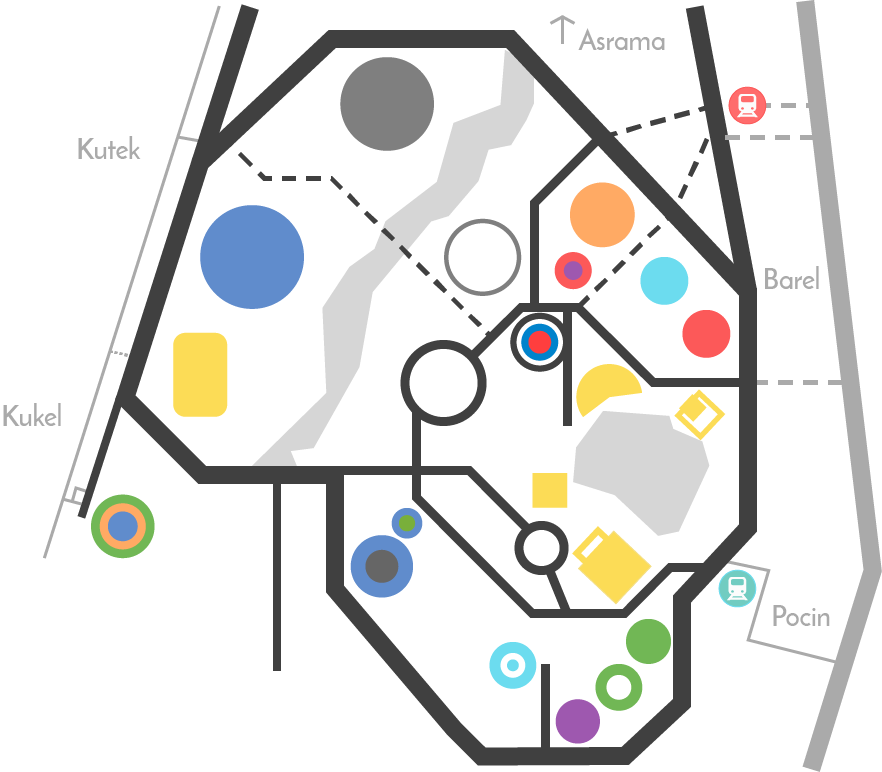
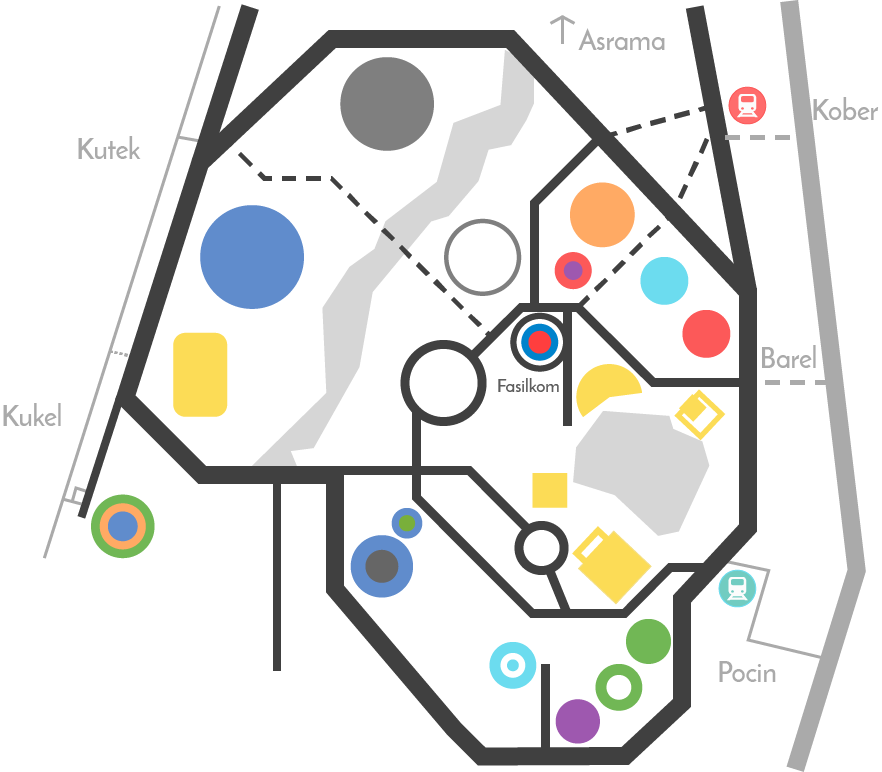
changed main map a bit, added minimaps

Changed region(s): [[0.8571, 0.0, 1.0, 1.0], [0.7959, 0.8394, 0.8878, 0.9016], [0.551, 0.4974, 0.6429, 0.5285]]

diff --git a/index.html b/index.html
@@ -35,7 +35,7 @@
 				<div class="row">
 					<div class="col-md-6 col-md-offset-3 splash-content">
 						<h1>iMaba</h1>
-						<p class="">Hi there new CS Students! Want to know more about the <br>Faculty of Computer Science University of Indonesia?</p>
+						<p class="">Selamat datang mahasiswa baru Fakultas Ilmu Komputer UI 2016!</p>
 						<div class="row">
 							<div class="col-xs-4" id="btn-info-ui">
 								<img src="img/mainicons-05.png" alt="">
@@ -70,10 +70,10 @@
 					<!-- map -->
 					<div class="row row-90">
 						<div class="col-md-7">
-							<img id="map-ui" src="img/map-ui-l.png" alt="">
+							<img id="map-ui" src="img/map-ui-ln.png" alt="">
 						</div>
 						<div class="col-md-5">
-							<img id="map-ui-legend" src="img/map-ui-lj-leg.png" alt="">
+							<img id="map-ui-legend" src="img/map-ui-ln-leg.png" alt="">
 						</div>
 					</div>
 					<!-- end map -->
@@ -86,6 +86,7 @@
 					</div>
 					<div class="row row-90 infokosan">
 						<div class="col-md-4">
+							<img src="img/minimaps/minimap_Barel.png" alt="">
 							<h5>Barel</h5>
 							<p>Barel (belakang rel) merupakan sebutan untuk daerah sepanjang pinggir rel kereta api dan dapat dicapai melalui jalan kecil diseberang FH. Fasilitas yang ditawarkan kosan di Barel sangat bervariasi.</p>
 							<p>Rp. 750.000 - Rp. 1.500.000 per bulan</p>
@@ -93,6 +94,7 @@
 							<p>Harus menyebrang rel dan kalau sudah malam penjaga pintu palang rel sudah tidak ada, harga kosan relatif mahal.</p>
 						</div>
 						<div class="col-md-4">
+							<img src="img/minimaps/minimap_Pocin.png" alt="">
 							<h5>Pocin</h5>
 							<p>Pocin merupakan sebutan untuk daerah disekitar Stasiun Pondok Cina, letaknya hampir strategisnya dengan daerah Barel dan dekat dengan Balairung UI. Secara umum, kosan di kawasan Pocin menawarkan fasilitas yang tak jauh berbeda dengan kosan di daerah Barel.</p>
 							<p>Rp. 400.000 - Rp. 1.200.000 per bulan</p>
@@ -100,6 +102,7 @@
 							<p>Harga makanan di sekitar Pocin tidak semurah di Barel.</p>
 						</div>
 						<div class="col-md-4">
+							<img src="img/minimaps/minimap_Kober.png" alt="">
 							<h5>Kober</h5>
 							<p>Daerah Kober terletak seberang Barel, untuk menjangkaunya harus menyebrangi jalan raya Margonda. Kosan daerah Kober umumnya berfasilitas lengkap dan nyaman, namun lebih murah daripada Barel karena letaknya yang cukup jauh. Di daerah Kober terdapat apartemen juga lho yaitu Margonda Residence dan Taman Melati Margonda, tapi harganya tentu lebih mahal.</p>
 							<p>Rp. 400.000 - Rp. 1.200.000 (apartemen sekitar 1.800.000)</p>
@@ -160,14 +163,38 @@
 				</div>
 			</section>
 
-			<section id="kemahasiswaan">
+			<section id="lain-lain">
 				<div class="container">
+					<!-- head -->
 					<div class="row">
-						<div class="hblock">
-							<h2>kemahasiswaan</h2>
-							<p>berbagai organisasi dan kegiatan kemahasiswaan yang ada di Fakultas Ilmu Komputer Universitas Indonesia</p>
+						<div class="col-md-8 col-md-offset-2 hblock text-center">
+							<img src="img/headicons-07.png" alt="">
+							<h2>lain-lain</h2>
+							<p class="text-center">mau ngekost atau tinggal di mana ya? Terus kalau ke Fasilkom caranya gimana sih? Di Fasilkom itu ada apa aja sih? Anak-anak Fasilkom itu kayak apa ya?</p>
+							<hr>
 						</div>
 					</div>
+					<!-- end head -->
+					<!-- socmed -->
+					<div class="row">
+						<div class="col-md-4">
+							<img src="" alt="">
+							<p></p>
+							<a href=""><img src="" alt="">@BEMFasilkomUI</a><br>
+							<a href=""><img src="" alt="">@BEMFasilkomUI</a>
+						</div>
+						<div class="col-md-4">
+							<img src="" alt="">
+							<p></p>
+							<a href=""><img src="" alt="">@</a>
+						</div>
+						<div class="col-md-4">
+							<img src="" alt="">
+							<p></p>
+							<a href=""><img src="" alt=""></a>
+						</div>
+					</div>
+					<!-- end socmed -->
 				</div>
 			</section>
 		</div>

diff --git a/css/imaba.css b/css/imaba.css
@@ -27,20 +27,24 @@ hr {
   background-color: #153956;
   color: #f9f9f9;
   text-align: center;
-  height: 94vh;
+  min-height: 94vh;
   border-bottom: 3px solid #e4e4e4; }
   .splash p {
-    font-size: 21px;
+    font-size: 23px;
     font-weight: 400; }
 
 .splash-content {
-  padding-top: 200px; }
+  padding-top: 200px;
+  padding-bottom: 40px; }
   .splash-content img {
     max-width: 90%;
     padding-top: 20px; }
   .splash-content h4 {
     color: #f9f9f9; }
 
+@media only screen and (min-device-width: 320px) and (max-device-width: 540px) {
+  .splash-content {
+    padding-top: 80px; } }
 .navbar {
   transition: all 0.3s; }
   .navbar a {
@@ -136,7 +140,17 @@ hr {
     padding-left: 40px;
     padding-right: 80px; }
 
+@media only screen and (min-device-width: 320px) and (max-device-width: 540px) {
+  #info-ui #map-ui {
+    padding-left: 5px;
+    padding-right: 5px; } }
 .infokosan p {
   font-size: 16px; }
+
+#akademis {
+  padding-top: 30px; }
+
+#lain-lain {
+  padding-top: 30px; }
 
 /*# sourceMappingURL=imaba.css.map */

diff --git a/sass/imaba/splash.scss b/sass/imaba/splash.scss
@@ -2,11 +2,11 @@
 	background-color: $deepblue;
 	color: $classicwhite;
 	text-align: center;
-	height: 94vh;
+	min-height: 94vh;
 	border-bottom: 3px solid $lightergray;
 
 	p {
-		font-size: 21px;
+		font-size: 23px;
 		font-weight: 400;
 	}
 
@@ -14,6 +14,7 @@
 
 .splash-content {
 	padding-top: 200px;
+	padding-bottom: 40px;
 
 	img {
 		max-width: 90%;
@@ -23,4 +24,12 @@
 	h4 {
 		color: $classicwhite;
 	} 
+}
+
+@media only screen 
+  and (min-device-width: 320px) 
+  and (max-device-width: 540px) {
+		.splash-content {
+			padding-top: 80px;
+		}
 }

diff --git a/sass/imaba/content.scss b/sass/imaba/content.scss
@@ -88,6 +88,25 @@
 	}
 }
 
+@media only screen 
+  and (min-device-width: 320px) 
+  and (max-device-width: 540px) {
+		#info-ui {
+			#map-ui {
+				padding-left: 5px;
+				padding-right: 5px;
+			}
+		}
+}
+
 .infokosan p {
 	font-size: 16px;
+}
+
+#akademis {
+	padding-top: 30px;
+}
+
+#lain-lain {
+	padding-top: 30px;
 }

diff --git a/js/scripts.js b/js/scripts.js
@@ -27,7 +27,7 @@ $(document).ready(function(){
   $("#btn-academic, #ico-academic").click(function() {
     $('html, body').animate({
         scrollTop: $("#academic").offset().top -50
-    }, 700);
+    }, 1000);
   });
 
   $("#btn-lain-lain, #ico-lain-lain").click(function() {

diff --git a/content.md b/content.md
@@ -2,6 +2,10 @@
 
 #### (Filler/Peta Fasilkom) ?
 
+## Info UI
+  - Peta UI
+  - Info Kosan
+
 ## Akademis
   - Beda Ilkom vs SI (lebih singkat dr yg skrg, lebih ke visual(?))
   - Belajar apa di Fasilkom? (Programming/Math/SI)
@@ -11,10 +15,6 @@
   - Kegiatan2 di Fasilkom
   - Survei2 dr iMaba tahun lalu (nanti di versi final surveinya baru lg)
   - Beasiswa
-
-## Info UI
-  - Peta UI
-  - Info Kosan
 
 ## Lain-lain
   - Socmed BEM Fasilkom/Adkesma/PMB/etc. 
